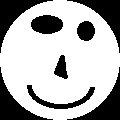
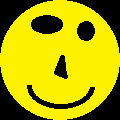
Animated images - Now animates and draws colored image strips - Draws the images on a timer

diff --git a/Nonconventional Forms/Form1.cs b/Nonconventional Forms/Form1.cs
@@ -1,37 +1,110 @@
 using System;
 using System.Collections.Generic;
 using System.ComponentModel;
-using System.Data;
-using System.Diagnostics;
 using System.Drawing;
-using System.Drawing.Drawing2D;
-using System.Linq;
-using System.Text;
-using System.Threading.Tasks;
+using System.Drawing.Imaging;
 using System.Windows.Forms;
 
 namespace Nonconventional_Forms
 {
     public partial class Form1 : Form
     {
-        public const int WM_NCLBUTTONDOWN = 0xA1;
-        public const int HT_CAPTION = 0x2;
-        private Bitmap image;
+        private const int WM_NCLBUTTONDOWN = 0xA1;
+        private const int HT_CAPTION = 0x2;
+
+        private const int startFrame = 0;
+        private const int delay = 500;
+        private const bool bounce = true;
+        private int direction;
+
+        private Timer timer;
+
+        private List<Bitmap> images;
+        private List<Region> regions;
+        private int frame;
 
         [System.Runtime.InteropServices.DllImportAttribute("user32.dll")]
         public static extern int SendMessage(IntPtr hWnd, int Msg, int wParam, int lParam);
         [System.Runtime.InteropServices.DllImportAttribute("user32.dll")]
         public static extern bool ReleaseCapture();
 
+        /* Initializes the form */
         public Form1()
         {
-            // Load the image
-            image = new Bitmap("..\\..\\smiley.png");
-            InitializeComponent(); // Start up the form
+            // Load all of the frames for the animation
+            loadFrames(120, 120);
+            frame = startFrame;
+            direction = 1;
 
-            HandleCreated += change; // Change the shape of the form once it is created
+            // Start up the form
+            InitializeComponent();
+
+            // Update the region of the form every tick
+            timer = new Timer();
+            timer.Interval = delay;
+            timer.Enabled = true;
+            timer.Tick += new EventHandler(
+            delegate(object sender, EventArgs e)
+            {
+                // Advance the frame by 1
+                frame += direction;
+                if (frame >= regions.Count)
+                {
+                    if (bounce)
+                    {
+                        direction = -1;
+                        frame = regions.Count + direction;
+                    }
+                    else
+                        frame = 0;
+                }
+                else if (frame < 0)
+                {
+                    if (bounce)
+                    {
+                        direction = 1;
+                        frame = direction;
+                    }
+                    else
+                        frame = regions.Count - 1;
+                }
+
+                // Draw the frame
+                Region = regions[frame].Clone();
+                CreateGraphics().DrawImage(images[frame], 0, 0);
+            });
         }
 
+        /* Loads all of the images for the animation */
+        private void loadFrames(int frameWidth, int frameHeight)
+        {
+            images = new List<Bitmap>();
+            regions = new List<Region>();
+            Bitmap img = new Bitmap("..\\..\\animSmiley.png");
+
+            // Assuming the image strip is horizontal, load the images
+            try
+            {
+                for (int x = 0; x < img.Width; x += frameWidth)
+                {
+                    Rectangle rect = new Rectangle(x, 0, frameWidth, frameHeight);
+                    images.Add(img.Clone(rect, PixelFormat.DontCare));
+                }
+            }
+            catch (Exception e)
+            {
+                MessageBox.Show(e.Message + "\n" + e.StackTrace);
+            }
+
+            for (int i = 0; i < images.Count; i++)
+            {
+                RegionFactory factory = new RegionFactory();
+                factory.add(images[i], Color.FromArgb(255, 0, 0, 0));
+                regions.Add(factory.region);
+            }
+        }
+
+        /* Drags the form when it is clicked */
         private void Form1_MouseDown(object sender, MouseEventArgs e)
         {
             if (e.Button == MouseButtons.Left)
@@ -41,28 +114,23 @@ namespace Nonconventional_Forms
             }
         }
 
-        /* Changes the shape of the form every frame */
-        private void Form1_Paint(object sender, PaintEventArgs e)
-        {
-            // Does nothing right now
-        }
-
-        /* Changes the shape of the form to the image */
-        private void change(object sender, EventArgs e)
-        {
-            Debug.WriteLine("Wrote stuff");
-            RegionFactory factory = new RegionFactory();
-            factory.add(image, Color.FromArgb(255, 0, 0, 0));
-            Region = factory.region;
-            RectangleF rectangle = factory.region.GetBounds(CreateGraphics());
-            Width = (int)rectangle.Width;
-            Height = (int)rectangle.Height;
-        }
-
         /* Closes the form when it is right clicked twice */
         private void Form1_MouseDoubleClick(object sender, MouseEventArgs e)
-        {
+        { 
             Close();
+        }
+
+        /* Turns off the timer when the form closes */
+        private void Form1_FormClosing(object sender, FormClosingEventArgs e)
+        {
+            timer.Enabled = false;
+        }
+
+        /* Changes the shape of the form once it is loaded */
+        private void Form1_Paint(object sender, PaintEventArgs e)
+        {
+            Region = regions[frame].Clone();
+            e.Graphics.DrawImage(images[frame], 0, 0);
         }
     }
 }

diff --git a/Nonconventional Forms/RegionFactory.cs b/Nonconventional Forms/RegionFactory.cs
@@ -1,23 +1,21 @@
 using System;
-using System.Collections.Generic;
-using System.Diagnostics;
 using System.Drawing;
-using System.Linq;
-using System.Text;
-using System.Threading.Tasks;
-using System.Windows.Forms;
 
 namespace Nonconventional_Forms
 {
     class RegionFactory
     {
         public Region region;
-        public RegionFactory() { region = new Region(new Rectangle(0, 0, 0, 0)); }
+        public RegionFactory() { clear(); }
         public RegionFactory(Region region) { this.region = region; }
         public static RegionFactory operator +(RegionFactory factory, Rectangle rectangle) { factory.add(rectangle); return factory; }
         public static RegionFactory operator +(RegionFactory factory, Bitmap image) { factory.add(image); return factory; }
         public void add(Rectangle rectangle) { region.Union(rectangle); }
+        public void clear() { region = new Region(new Rectangle(0, 0, 0, 0)); }
 
+        /********************************************************
+         * Adds the image to the region using the alpha channel *
+         ********************************************************/
         public void add(Bitmap image)
         {
             int w = image.Width;
@@ -26,15 +24,21 @@ namespace Nonconventional_Forms
             bool draw = false;
             for (int y = 0; y < h; y++)
             {
-                draw = false;
                 for (int x = 0; x < w; x++)
                 {
                     int alpha = image.GetPixel(x, y).A;
                     if (draw && alpha == 0)
                     {
-                        add(new Rectangle(lastx, y, x - lastx, 1));
-                        lastx = x;
-                        draw = false;
+                        try
+                        {
+                            region.Union(new Rectangle(lastx, y, x - lastx, 1));
+                            lastx = x;
+                            draw = false;
+                        }
+                        catch (Exception e)
+                        {
+                            System.Windows.Forms.MessageBox.Show(e.Message + "\n" + e.StackTrace);
+                        }
                     }
                     else if (!draw && alpha != 0)
                     {
@@ -42,9 +46,20 @@ namespace Nonconventional_Forms
                         draw = true;
                     }
                 }
+
+                if (draw)
+                {
+                    add(new Rectangle(lastx, y, w - lastx, 1));
+                    draw = false;
+                }
+
+                lastx = 0;
             }
         }
 
+        /***************************************************************
+         * Adds the image to the region using the specified color mask *
+         ***************************************************************/
         public void add(Bitmap image, Color mask)
         {
             int w = image.Width;
@@ -66,7 +81,7 @@ namespace Nonconventional_Forms
                         }
                         catch (Exception e)
                         {
-                            MessageBox.Show(e.Message + "\n" + e.StackTrace);
+                            System.Windows.Forms.MessageBox.Show(e.Message + "\n" + e.StackTrace);
                         }
                     }
                     else if (!draw && color != mask)

diff --git a/Nonconventional Forms/Form1.Designer.cs b/Nonconventional Forms/Form1.Designer.cs
@@ -37,6 +37,8 @@
             this.ClientSize = new System.Drawing.Size(284, 262);
             this.FormBorderStyle = System.Windows.Forms.FormBorderStyle.None;
             this.Name = "Form1";
+            this.ShowInTaskbar = false;
+            this.FormClosing += new System.Windows.Forms.FormClosingEventHandler(this.Form1_FormClosing);
             this.Paint += new System.Windows.Forms.PaintEventHandler(this.Form1_Paint);
             this.MouseDoubleClick += new System.Windows.Forms.MouseEventHandler(this.Form1_MouseDoubleClick);
             this.MouseDown += new System.Windows.Forms.MouseEventHandler(this.Form1_MouseDown);
